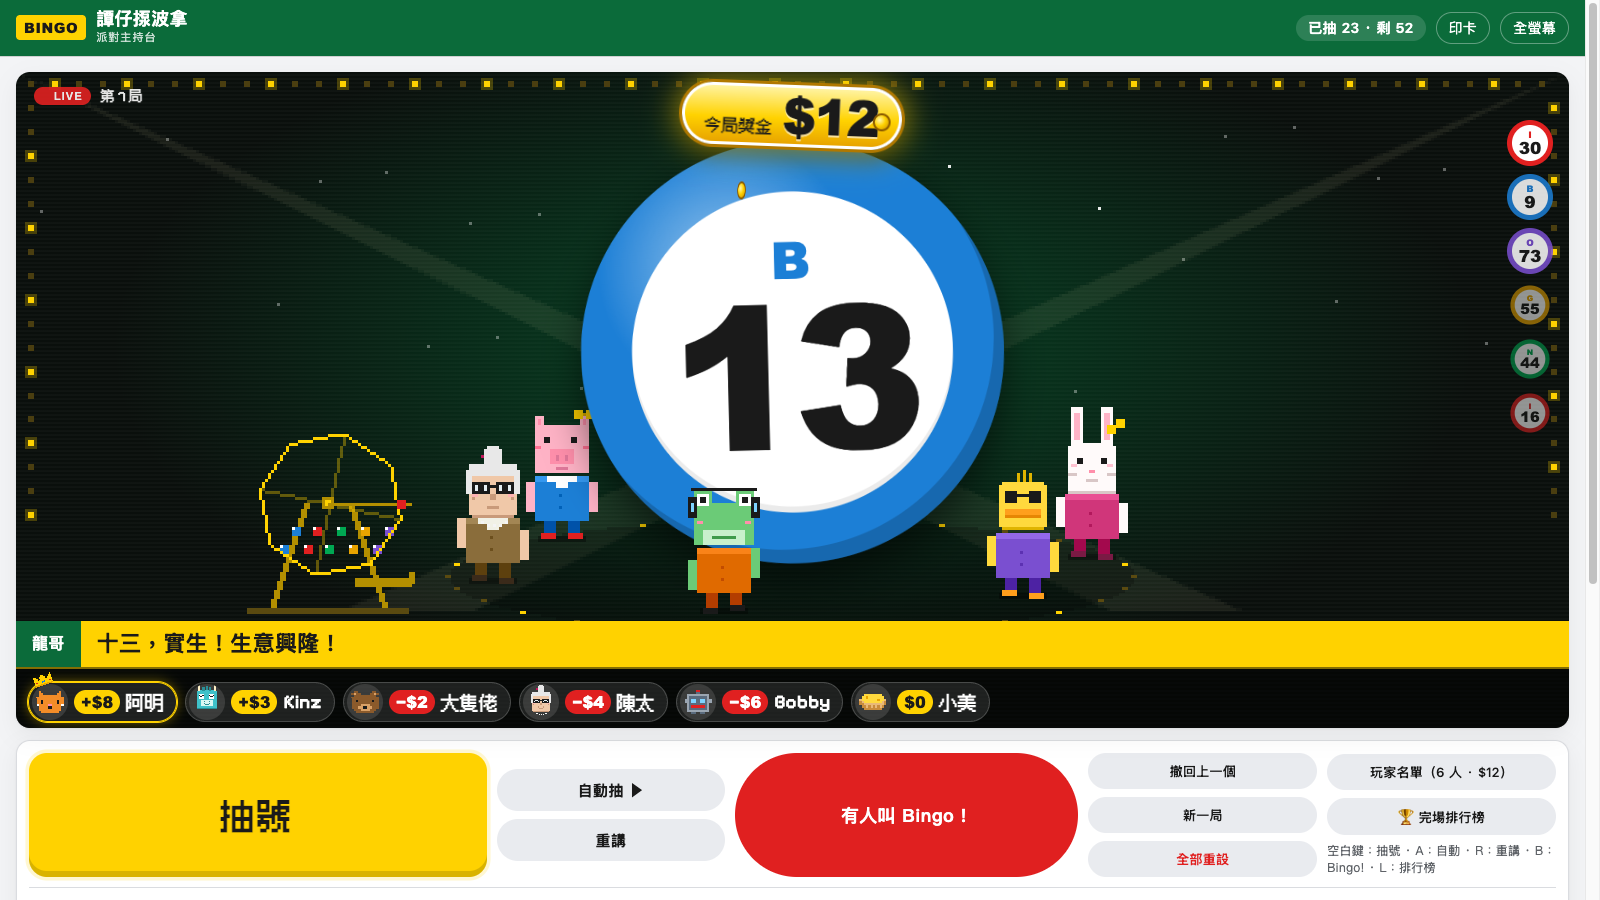
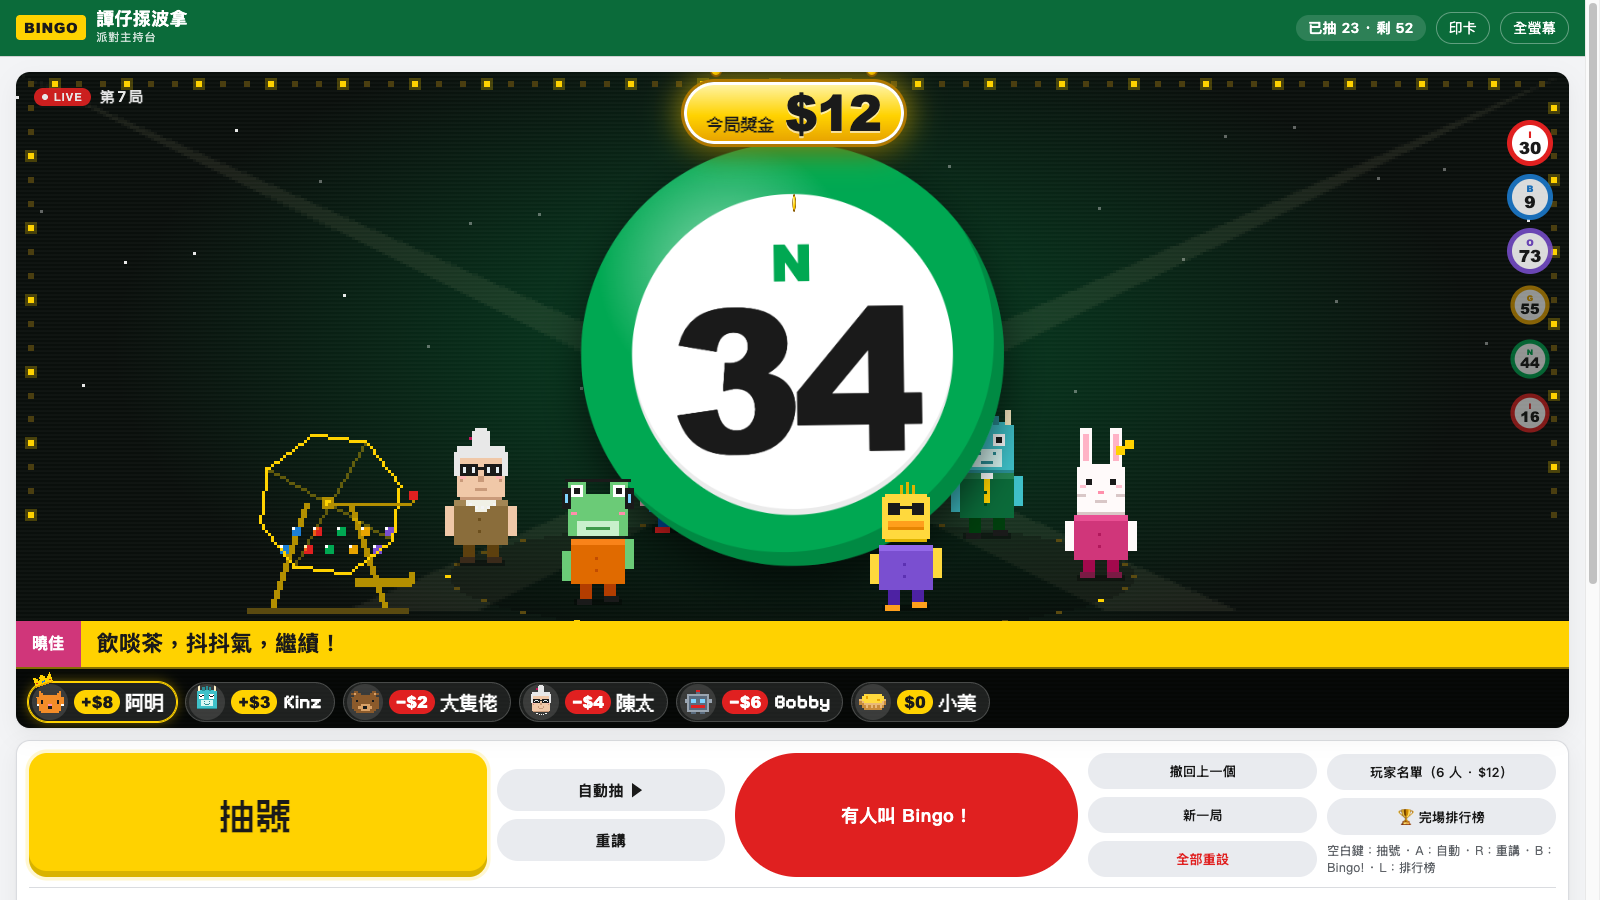
Stage bug: set the game number in the UI face
Pixelify Sans's 7 reads as a 1 at 14px, so 第 7 局 looked like 第 1 局.
Screenshots retaken.

diff --git a/web/index.html b/web/index.html
@@ -34,7 +34,7 @@
       <canvas class="stage-layer back" id="stageBack" aria-hidden="true"></canvas>
       <canvas class="stage-layer front" id="stageFront" aria-hidden="true"></canvas>
       <div class="flash" id="flash" aria-hidden="true"></div>
-      <div class="stage-bug"><span class="pill-live"><i></i>LIVE</span><span id="stageGame">第 1 局</span></div>
+      <div class="stage-bug"><span class="pill-live"><i></i>LIVE</span><span id="stageGame">第 <b>1</b> 局</span></div>
       <div class="ball-wrap" id="ballWrap">
         <div class="ball" id="ball" data-state="idle">
           <span class="ball-letter" id="ballLetter"></span>

diff --git a/web/app.js b/web/app.js
@@ -171,7 +171,8 @@ function renderRecent() {
 function renderStatus() {
   const d = state.drawn.length;
   $('countPill').textContent = state.opened ? `已抽 ${d} · 剩 ${state.pool - d}` : '未開波';
-  $('stageGame').textContent = `第 ${state.game} 局`;
+  // The pixel font's 7 reads as a 1 at this size, so the number is in the plain face.
+  $('stageGame').innerHTML = `第 <b>${state.game}</b> 局`;
   $('drawBtn').textContent = !state.opened ? '開波' : d >= state.pool ? '全部抽晒' : '抽號';
   $('drawBtn').disabled = busy || (state.opened && d >= state.pool);
   $('undoBtn').disabled = busy || !d;

diff --git a/web/style.css b/web/style.css
@@ -170,6 +170,7 @@ h2 { margin: 0; font-size: 16px; }
   font: 600 14px var(--pixel), var(--font);
   opacity: 0.9;
 }
+#stageGame b { font: 800 15px var(--font); }
 .pill-live {
   display: inline-flex; align-items: center; gap: 6px;
   padding: 1px 8px;
